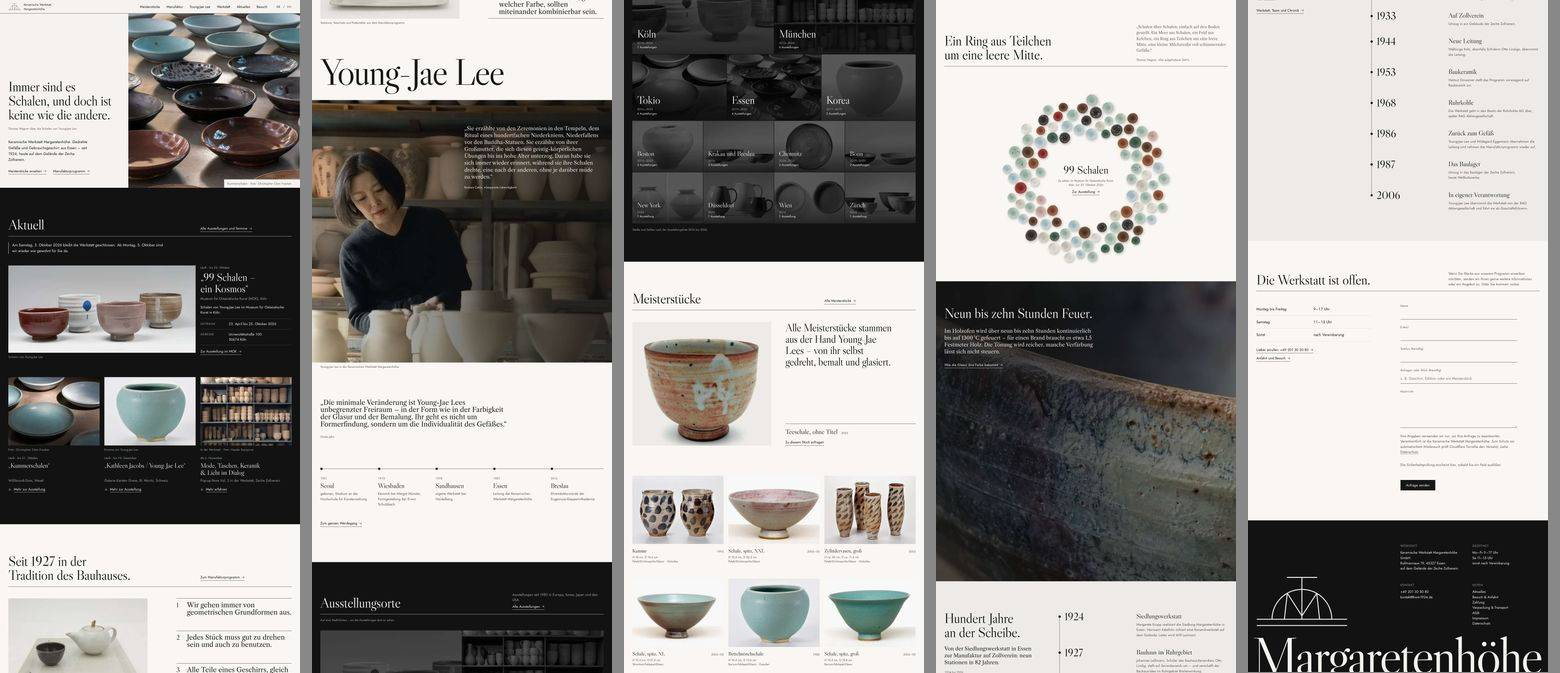
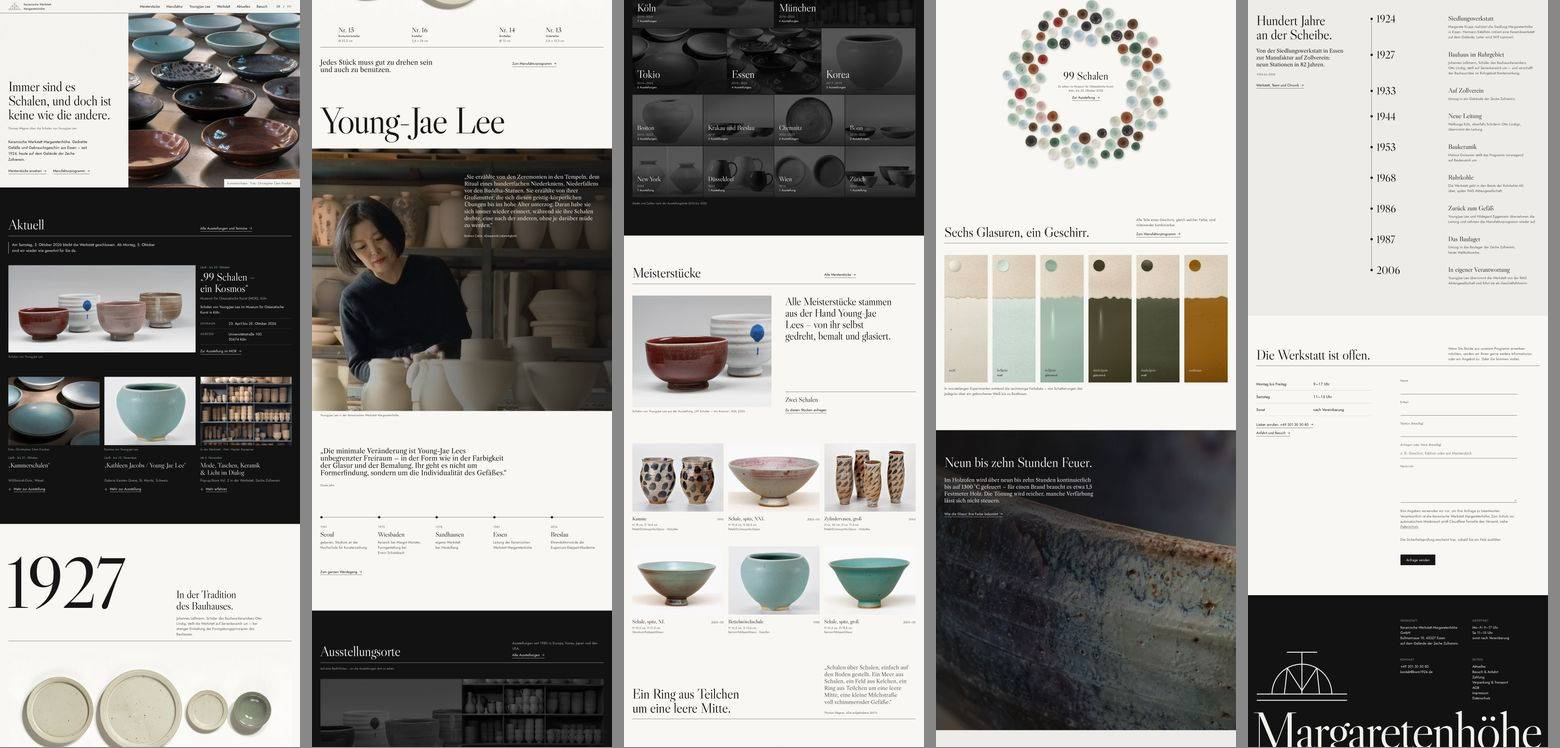
Bericht Runde 2: Empfehlung Kombination 1927 und Tafel, Farbskala gegen Ende, Meisterstück-Bild mit Alternativen; DESIGN.md und README nachgezogen

diff --git a/konzept/STARTSEITE-MITTELWEG.md b/konzept/STARTSEITE-MITTELWEG.md
@@ -1,6 +1,21 @@
 # Startseite „Mittelweg“ (Gesamtstand plus Teile der Bauhaus-Variante)
 
-Stand: 05.10.2026. Branch `startseite-mittelweg` (Basis `gesamtstand` e0330a3), Vorschau https://startseite-mittelweg-kwm-redesign.entwicklung-7f3.workers.dev. Auftrag: Admin-Entscheidungen vom 05.10.2026 in `.superpowers/sdd/MITTELWEG/progress.md`. Die Seite unterscheidet sich vom Gesamtstand nur auf der Startseite und auf /young-jae-lee (ein Satz ergänzt, siehe Abschnitt 6).
+Stand: 05.10.2026. Branch `startseite-mittelweg` (Basis `gesamtstand`, seit Runde 2 a81c9d2), Vorschau https://startseite-mittelweg-kwm-redesign.entwicklung-7f3.workers.dev. Auftrag: Admin-Entscheidungen vom 05.10.2026 in `.superpowers/sdd/MITTELWEG/progress.md`. Die Seite unterscheidet sich vom Gesamtstand nur auf der Startseite und auf /young-jae-lee (ein Satz ergänzt, siehe Abschnitt 6).
+
+## 0. Runde 2 (Admin-Feedback 05.10.2026): Empfehlung
+
+**Feedback:** Entwurf 1 (Grundsätze) verworfen. Entwurf 2 (1927) trägt durch die Zahl, Entwurf 3 (Teller-Tafel) ist schön, weil er die Funktion zeigt. Frage nach einem Mittelweg aus 2 und 3. Die Farbskala fehlt. Die Teeschale als Meisterstück gefällt nicht.
+
+**Empfehlung, gebaut als Entwurf 4 (jetzt Standard, `?bauhaus=4` oder ohne Angabe):**
+1. **Bauhaus-Station = 1927 über der Tafel.** Oben die Jahreszahl als Marke, rechts auf ihrer Grundlinie „In der Tradition des Bauhauses.“ und ein Satz zu Leßmann. Darunter die vier Teller mit Programmnummer, Name und Maß, darunter der Grundsatz „Jedes Stück muss gut zu drehen sein und auch zu benutzen.“. Herkunft und Gebrauch stehen in einem Abschnitt: woher die Formen kommen und wofür sie da sind. Das Regal aus Entwurf 2 entfällt hier, die Tafel ist das stärkere Bild, und zwei Fotos würden die Zahl schwächen.
+2. **Farbskala als eigener ruhiger Abschnitt gegen Ende, nicht in der Bauhaus-Station.** „Sechs Glasuren, ein Geschirr.“ steht zwischen 99 Schalen und Feuer, dort, wo der Manufaktur-Block im Gesamtstand stand.
+   - Die Farbskala ist eine interaktive Signatur und füllt zwei Drittel der Bildschirmhöhe. Zusammen mit Zahl und Tafel würde die Station rund zweieinhalb Bildschirme lang, gleich nach Aktuell. Die Person (Young-Jae Lee) rückte weit nach unten, und auf einem Bildschirm stünden zwei starke Elemente (DESIGN.md §1: eine Signatur je Bildschirm).
+   - Die Geschichte wird klarer: oben das Warum (Bauhaus, Gebrauch), gegen Ende das Womit (sechs Glasuren, „alle Teile kombinierbar“). Danach folgt das Feuer mit dem Link „Wie die Glasur ihre Farbe bekommt“. Farbe und Brand stehen damit nebeneinander.
+   - Rhythmus: Die lange helle Strecke nach den Orten (Meisterstücke, 99 Schalen) bekommt einen farbigen Halt, bevor das dunkle Feuer kommt.
+   - Der Admin erinnert die Farbskala „gegen Ende“; dort wirkt sie als ruhiger Ausklang des Geschirrs.
+3. **Kein dritter Weg „oben etwas anderes, Manufaktur und Meisterstücke lassen“:** Ein eigener Manufaktur-Block mit Regal, Kurzfakten und Krügen war genau der Text- und Bildballast, den der Admin aus der Startseite haben wollte. Tafel (oben) und Farben (unten) erzählen die Manufaktur mit zwei Bildern und drei Sätzen.
+
+Entwurf 1 ist entfernt. Entwürfe 2 und 3 bleiben zum Vergleich (`?bauhaus=2`, `?bauhaus=3`), der Abschnitt Farben steht in allen Fassungen.
 
 ## 1. Abschnittsfolge
 
@@ -8,30 +23,32 @@ Stand: 05.10.2026. Branch `startseite-mittelweg` (Basis `gesamtstand` e0330a3), 
 |---|---|---|---|
 | 1 | Einstieg: Wagner-Zitat, Kummerschalen | hell | unverändert |
 | 2 | Aktuell | Anker | unverändert |
-| 3 | **Bauhaus-Station** (drei Entwürfe, `?bauhaus=1|2|3`) | hell | neu; ersetzt Einleitungssatz mit Zwei Linien und den Manufaktur-Block |
+| 3 | **Bauhaus-Station** (Entwurf 4: 1927 über der Tafel; `?bauhaus=2|3` zum Vergleich) | hell | neu; ersetzt Einleitungssatz und Zwei Linien |
 | 4 | Young-Jae Lee: Name, haftendes Porträt mit Catoir, Jahn, Lebensweg | hell, Bild | Jahn nur noch einmal (der Satz zum koreanischen Erbe entfällt hier) |
 | 5 | Ausstellungsorte | Anker | rückt vor die Meisterstücke |
-| 6 | Meisterstücke: Einzelwerk und sechs Werke | hell | Aufbau wie bisher, neues Einzelbild (Teeschale), höchstens zwei Drittel Bildschirmhöhe |
+| 6 | Meisterstücke: Einzelwerk und sechs Werke | hell | Aufbau wie bisher, neues Einzelbild (zwei Schalen aus dem MOK-Foto), höchstens zwei Drittel Bildschirmhöhe |
 | 7 | 99 Schalen | hell | unverändert |
-| 8 | Feuer | Bild | unverändert |
-| 9 | Chronik mit Kurztexten | Fläche | unverändert |
-| 10 | Besuch und Anfrage | hell | unverändert |
+| 8 | **Farben**: „Sechs Glasuren, ein Geschirr.“, Farbskala | hell | statt des Manufaktur-Blocks; nur Farbskala, ein Satz, ein Link |
+| 9 | Feuer | Bild | unverändert |
+| 10 | Chronik mit Kurztexten | Fläche | unverändert |
+| 11 | Besuch und Anfrage | hell | unverändert |
 
-Entfallen: Meditation (steht auf /meisterstuecke), Einleitungssatz und Zwei Linien, Manufaktur-Block mit Farbskala, Regal, Kurzfakten und Krügen.
+Entfallen: Meditation (steht auf /meisterstuecke), Einleitungssatz und Zwei Linien, aus dem Manufaktur-Block Regal, Kurzfakten und Krüge (die Farbskala ist zurück, siehe Abschnitt 0).
 
-**Hell und Dunkel, am Bild geprüft** (`startseite-mittelweg/nachher-1440.jpg`): hell, Anker (Aktuell), hell (Bauhaus), hell mit großem dunklem Porträt, Anker (Orte), hell (Meisterstücke, 99 Schalen), dunkles Bild (Feuer), Fläche (Chronik), hell, Anker (Footer). Nie zwei Anker hintereinander. Zwischen Aktuell und Orte liegen rund 3.400 px, aber das haftende Porträt ist am Rechner selbst ein dunkles Vollbild und gibt dort Halt. Nach den Orten folgen gut drei Bildschirme hell; sie tragen sich über die Werkfotos und den farbigen Ring und enden im dunklen Feuer. Ich habe deshalb nichts umgefärbt: Eine Fläche für die Bauhaus-Station oder die 99 Schalen würde zusammen mit der Chronik „Fläche, Bild, Fläche“ ergeben und den Rhythmus unruhiger machen. Die Orte bleiben dunkel (Vorgabe).
+**Hell und Dunkel, am Bild geprüft** (`startseite-mittelweg/nachher-1440.jpg`): hell, Anker (Aktuell), hell (Bauhaus), hell mit großem dunklem Porträt, Anker (Orte), hell (Meisterstücke, 99 Schalen, Farben mit den sechs Glasurbändern), dunkles Bild (Feuer), Fläche (Chronik), hell, Anker (Footer). Nie zwei Anker hintereinander. Zwischen Aktuell und Orte liegen rund 3.400 px, aber das haftende Porträt ist am Rechner selbst ein dunkles Vollbild und gibt dort Halt. Nach den Orten folgen gut drei Bildschirme hell; sie tragen sich über die Werkfotos und den farbigen Ring und enden im dunklen Feuer. Ich habe deshalb nichts umgefärbt: Eine Fläche für die Bauhaus-Station oder die 99 Schalen würde zusammen mit der Chronik „Fläche, Bild, Fläche“ ergeben und den Rhythmus unruhiger machen. Die Orte bleiben dunkel (Vorgabe).
 
 **Regel `--werk-max` (66 svh) mit den Tokens abgeglichen:** neu in `global.css` neben `--section` und `--head-gap`, in DESIGN.md §4 als „Bildgröße nach Rolle“. Greift bei allen Werkbildern der Startseite: Einzelwerk Meisterstücke (vorher bis 680 px hoch, jetzt höchstens 594 px bei 900 px Bildschirmhöhe), Bilder der drei Bauhaus-Entwürfe. Die Werkschau (etwa 315 px) und das Spotlight bei Aktuell liegen ohnehin darunter. Ausgenommen sind Stimmungsbilder: Einstieg, Feuer, Orte und das haftende Porträt am Rechner (Admin: Haft-Element bleibt). Am Handy steht das Porträt 1:1 mit Rand und bleibt unter zwei Dritteln.
 
-## 2. Die Bauhaus-Station in drei Entwürfen
+## 2. Die Bauhaus-Station: Entwurf 4 (Standard), 2 und 3 zum Vergleich
 
-Gemeinsam: Raster aus 12 Spalten, Haarlinien als Rasterkanten, Farbwelt und Schriften der Seite, keine Bauhaus-Zitate als Stil (kein Rot-Gelb-Blau, keine Grundformen-Symbole, keine Grotesk), keine Farbstreifen, keine Glasurbühne. Umschaltung: Das Kopf-Skript setzt bei `?bauhaus=2|3` `data-bauhaus` an `<html>`, bevor die Seite zeichnet; CSS zeigt den passenden Entwurf. Ohne Angabe (und ohne JavaScript) erscheint Entwurf 1. Kein Sprung, CSP-konform (Hash in `astro.config.mjs`), Test in `tests/verhalten.spec.ts`. Nach der Entscheidung entfallen Umschalter, die zwei anderen Entwürfe und ggf. das Bild `teller-reihe.webp` bzw. die Rolle `--t-marke`.
+Gemeinsam: Raster aus 12 Spalten, Haarlinien als Rasterkanten, Farbwelt und Schriften der Seite, keine Bauhaus-Zitate als Stil (kein Rot-Gelb-Blau, keine Grundformen-Symbole, keine Grotesk), keine Farbstreifen, keine Glasurbühne. Umschaltung: Das Kopf-Skript setzt bei `?bauhaus=2|3` `data-bauhaus` an `<html>`, bevor die Seite zeichnet; CSS zeigt den passenden Entwurf. Ohne Angabe (und ohne JavaScript) erscheint Entwurf 4; `?bauhaus=1` und unbekannte Werte zeigen ebenfalls 4. Kein Sprung, CSP-konform (Hash in `astro.config.mjs`), Test in `tests/verhalten.spec.ts`. Nach der Entscheidung entfallen Umschalter, die zwei anderen Entwürfe und ggf. das Bild `teller-reihe.webp` bzw. die Rolle `--t-marke`.
 
-### Entwurf 1 „Grundsätze“ (typografisch, Raster)
-- **Idee:** Drei nummerierte Grundsätze der Werkstatt stehen im strengen Raster neben einem Ensemble aus dem Programm. Die Nummern sind hier Inhalt (eine Liste von Regeln), keine Dekoration. Form, Gebrauch, System in dieser Reihenfolge.
-- **Texte und Quellen:** „Wir gehen immer von geometrischen Grundformen aus.“ (Young-Jae Lee im Interview, Ilona Marx, „Der Ruf des Bauhaus“, urbanana, 25.01.2023, `CONTENT-FUNDE.md` 2.1, in der Stimme der Werkstatt); „Jedes Stück muss gut zu drehen sein und auch zu benutzen.“ und „Alle Teile eines Geschirrs, gleich welcher Farbe, sollten miteinander kombinierbar sein.“ (Vorgaben für das Manufakturprogramm, `/manufaktur`, alte Seite `/werkstatt/arbeitsweise/`).
-- **Bild:** Teekanne, Teeschale und Plattenteller (`teekanne.webp`, 1030 × 687, Freisteller auf Fläche), Nachweis fehlt.
-- **Screens:** `startseite-mittelweg/entwurf-1-1440.jpg`, `entwurf-1-390.jpg`.
+### Entwurf 4 „1927 und Tafel“ (Standard, Kombination aus 2 und 3)
+- **Idee:** Herkunft und Gebrauch in einem Abschnitt. Die Jahreszahl als Marke (Spalte 1–7), rechts auf ihrer Grundlinie Satz und Herkunft (Spalte 8–12), Haarlinie, dann die Tafel mit vier Tellern und ihrer Legende, darunter der Grundsatz des Programms.
+- **Texte und Quellen:** Chronik 1927 (Leßmann, Lindig, „bei strenger Einhaltung der Formgebungsprinzipien des Bauhauses“), Vorgabe „Jedes Stück muss gut zu drehen sein und auch zu benutzen.“ (`/manufaktur`), Teller Nr. 15, 16, 14, 13 aus `manufaktur.ts`.
+- **Bild:** `teller-reihe.webp` (siehe Entwurf 3), Komponente `TellerTafel` (von 3 und 4 geteilt).
+- **Screens:** `startseite-mittelweg/entwurf-4-1440.jpg`, `entwurf-4-390.jpg`.
+- Entwurf 1 „Grundsätze“ ist nach dem Feedback entfernt (Bild klein und grau, Liste zu textlastig).
 
 ### Entwurf 2 „1927“ (Herkunft, Typofoto)
 - **Idee:** Die Jahreszahl wird zur Marke, wie im Typofoto der Bauhaus-Drucksachen: große Zahl und Foto auf einer gemeinsamen Unterkante, darunter zwei Sätze im selben Raster. Das Regal mit ungebrannter Serienware zeigt, was Leßmann 1927 einführte: Serie, Norm, Wiederholung.
@@ -42,7 +59,7 @@ Gemeinsam: Raster aus 12 Spalten, Haarlinien als Rasterkanten, Farbwelt und Schr
 
 ### Entwurf 3 „Tafel“ (Form folgt Gebrauch)
 - **Idee:** Eine Tafel wie im Musterkatalog: vier Teller aus dem Programm in einer Reihe von oben, darunter genau unter jedem Stück Programmnummer, Name und Maß. Gleiche Grundform in abgestuften Größen, jede Größe ein Gebrauch (Brotschmier-, Ess-, Brot-, Unterteller). Das Foto ist freigestellt, sein Grund ist auf den Seitengrund `#F8F7F4` ausgeglichen (Vignette korrigiert), die Teller liegen also direkt auf der Seite.
-- **Texte und Quellen:** Grundsatz „Jedes Stück muss gut zu drehen sein …“ im Kopf, „Alle Teile eines Geschirrs …“ darunter (wie Entwurf 1); Nummern, Namen, Maße aus `src/data/manufaktur.ts` (Teller Nr. 15, 16, 14, 13), Zuordnung nach der alten Seite `/manufakturprogramm/geschirr-2/`.
+- **Texte und Quellen:** Grundsatz „Jedes Stück muss gut zu drehen sein …“ im Kopf, „Alle Teile eines Geschirrs …“ darunter; Nummern, Namen, Maße aus `src/data/manufaktur.ts` (Teller Nr. 15, 16, 14, 13), Zuordnung nach der alten Seite `/manufakturprogramm/geschirr-2/`.
 - **Bild:** neue Aufnahme der Werkstatt vom Oktober 2026, https://kwm-1924.de/wp-content/uploads/2026/10/1013-1016-Teller-plates-scaled.jpg (2560 × 1709), beschnitten auf 2560 × 1060 als `teller-reihe.webp`. Nachweis fehlt.
 - **Screens:** `entwurf-3-1440.jpg`, `entwurf-3-390.jpg`.
 
@@ -51,7 +68,7 @@ Gemeinsam: Raster aus 12 Spalten, Haarlinien als Rasterkanten, Farbwelt und Schr
 |---|---|---|
 | [19–86](https://19-86.fr) | Zahl als Monument, Haarlinien als Ordnung (Entwurf 2) | leichte Grotesk, Tabellenkopf |
 | [Gustavo Faria](https://gustavo.work) | schmale Informationsspalte neben großer Jahreszahl | gerissene Bildkanten |
-| [MDF Italia Contract](https://contract.mdfitalia.com/en) | „Key values“ als wenige Grundsätze im Raster (Entwurf 1) | Kreisgrafiken |
+| [MDF Italia Contract](https://contract.mdfitalia.com/en) | „Key values“ als wenige Grundsätze im Raster (Entwurf 1, verworfen) | Kreisgrafiken |
 | [B—Line](https://www.b-line.it), [V–A–C](https://v-a-c.org/en) | Objekte im gleichen Licht, eine Beschriftung je Objekt (Entwurf 3) | Versalien-Labels, Mono-Schrift |
 
 Dazu als Bauhaus-Herkunft der Mittel: Typofoto (Moholy-Nagy), Musterkatalog mit Modellnummern. Beides als Prinzip, nicht als Optik.
@@ -62,14 +79,13 @@ Dazu als Bauhaus-Herkunft der Mittel: Typofoto (Moholy-Nagy), Musterkatalog mit 
 
 ## 3. Meisterstück-Einstiegsbild
 
-**Gewählt: Teeschale, ohne Titel, 2023** (`src/assets/img/kwm/teeschale.webp`, 1200 × 1200; Original auf der alten Seite 1500 × 1500: https://kwm-1924.de/wp-content/uploads/2024/09/Young-Jae-Lee-Ohne-Titel-2023-…-teabowl-…-1500x1500-1.webp). Sicher ein Werk von Young-Jae Lee: Titel und Jahr stehen so auf /meisterstuecke („Young-Jae Lee, Teeschale, ohne Titel, 2023“) und /young-jae-lee, der Dateiname der alten Seite bestätigt beides. Freigestellt, ruhiger Grund, passt als Einzelstück in den bisherigen Aufbau (Bild links, Satz und Werkangaben rechts). Maße nicht belegt (der Dateiname nennt „105x145cm“, offensichtlich falsch). **Nachweis fehlt**; laut `BILDPLAN.md` A14 liegen die Rechte vermutlich bei der Galerie Metzger. Daten: `einzelwerk` in `src/data/werke.ts`, Anfrage-Link „Teeschale, ohne Titel (2023)“. Damit das Stück nicht direkt darüber schon als Orte-Kachel steht, zeigt die Kachel Korea jetzt eine Kumme (`kumme_3.webp`).
+**Gewählt (Runde 2): zwei Schalen aus dem MOK-Foto** (`src/assets/img/kwm/werke/zwei-schalen-mok.webp`, 1630 × 1304, Ausschnitt). Vorn die ochsenblutrote, dahinter die weiße mit blauem Tupfen. Quelle: https://kwm-1924.de/wp-content/uploads/2026/02/image.png (3575 × 1663), auf der alten Seite unter der Ankündigung „99 Schalen – ein Kosmos“ (MOK Köln). Das schönste und schärfste Werkfoto, das die alte Seite hat: ruhiger grauer Grund, Glasur und Fuß gut zu sehen. Der Ausschnitt zeigt zwei Schalen groß statt vier klein. Ehrlich gesagt bleibt es dasselbe Foto: Aktuell zeigt es als Ganzes noch bis zum Ende der Ausstellung (25.10.2026), die Orte-Kachel Köln gedämpft in Schwarz-Weiß. Durch den engen Ausschnitt und die andere Größe liest es sich aber als eigenes Werkbild; nach dem 25.10. bleibt nur noch die gedämpfte Kachel. Bildunterschrift: „Schalen von Young-Jae Lee aus der Ausstellung „99 Schalen – ein Kosmos“, Köln 2026“. Titel, Jahr und Maße sind nicht belegt, deshalb steht in der Werkzeile nur „Zwei Schalen“. **Nachweis fehlt** (Fotograf, Rechte; wohl Museumsfoto, bei MOK oder Werkstatt klären). Daten: `einzelwerk` in `src/data/werke.ts`.
 
-Alternativen:
-1. **Vier Teeschalen** (MOK-Foto), https://kwm-1924.de/wp-content/uploads/2026/02/image.png, 3575 × 1663, im Repo als `schalen-trio.webp` (2000 × 931). Schönstes und schärfstes Foto, passt wörtlich zu „Immer sind es Schalen …“. Dagegen: steht schon im Aktuell-Spotlight und als Kachel Köln, also dreimal auf der Startseite; dass es Schalen von Lee sind, ist nur durch die Platzierung unter der MOK-Ankündigung belegt; Fotograf und Rechte offen; Querformat 2,15:1 passt nicht in den Aufbau mit Einzelstück und Werkangaben.
-2. **Schale, spitz, XXL** (`schale_spitz_xxl_1.webp`), H 10,5 cm, D 22,5 cm, Petalit-Eichenasche-Glasur, 2003–2005 (`werke.ts`), freigestellt. Nur 600 × 400, auch auf der alten Seite nicht größer. Für ein großes Einzelbild zu klein.
-3. **Kugelvase** (`kugelvase.webp`), H 25 cm, D 32,5 cm, Barium-Feldspat-Glasur, Holzofen, Essen 1996. Ebenfalls nur 600 × 400.
-
-Die Spindelvase (`spindelvase-einzeln-1200.webp`) ist entfernt, sie wurde nur hier verwendet.
+Alle Kandidaten selbst angesehen (WordPress-Mediathek der alten Seite vollständig, alles ab 800 px):
+1. **Vier Schalen, ganzes MOK-Foto** (wie oben, 3575 × 1663). Das schönste Gesamtbild, aber zurzeit doppelt mit Aktuell und im Breitformat 2,15:1, das nicht in den Aufbau mit Werkangaben passt.
+2. **Teeschale, ohne Titel, 2023** (`teeschale.webp`, Original 1500 × 1500). Laut Ankündigung der alten Seite (2024/09/image.png) „o. T., 2023, 10,5 × Ø 14,5 cm, Foto: Edi Baumann“, also vollständig belegt. Vom Admin als nicht schön verworfen.
+3. **Kumme, ohne Titel, 2025–2026** (Detail), Rückseite der Greve-Einladung 2026 (https://kwm-1924.de/wp-content/uploads/2026/09/2026_Einladung_Seite-4.jpg, 1291 × 1321), H 12 cm, Ø 19,7 cm, Foto: André Schuster. Belegt, aber ein Scan der Drucksache und nur ein Ausschnitt der Kumme.
+4. Nicht geeignet: Schalen im Streiflicht (Foto: Christopher Clem Franken, 900 × 600, Stimmungsbild auf dunklem Holz) und die Werkbilder der Meisterstücke-Seiten (nur 600 × 400).
 
 ## 4. Zahlen vorher und nachher
 
@@ -79,19 +95,19 @@ Gemessen mit Playwright (Chromium, reduzierte Bewegung, fester Tag 04.10.2026): 
 |---|---:|---:|---:|---|---:|---:|---:|
 | Einstieg | 45 | 900 | 1.032 | Einstieg | 45 | 900 | 1.032 |
 | Aktuell | 131 | 1.615 | 1.529 | Aktuell | 131 | 1.615 | 1.529 |
-| Einleitungssatz, Zwei Linien | 86 | 882 | 900 | **Bauhaus** Entwurf 1 / 2 / 3 | 45 / 56 / 55 | 976 / 882 / 1.340 | 1.035 / 996 / 786 |
+| Einleitungssatz, Zwei Linien | 86 | 882 | 900 | **Bauhaus** Entwurf 4 (2 / 3) | 63 (56 / 55) | 1.568 (882 / 1.340) | 924 (996 / 786) |
 | Young-Jae Lee | 180 | 2.475 | 2.007 | Young-Jae Lee | 141 | 2.434 | 1.762 |
 | Meisterstücke | 90 | 2.017 | 1.229 | Ausstellungsorte | 87 | 1.786 | 1.767 |
-| Ausstellungsorte | 87 | 1.786 | 1.767 | Meisterstücke | 92 | 2.087 | 1.309 |
+| Ausstellungsorte | 87 | 1.786 | 1.767 | Meisterstücke | 103 | 2.058 | 1.286 |
 | Meditation | 63 | 559 | 719 | (entfällt) | | | |
-| 99 Schalen | 59 | 1.379 | 937 | 99 Schalen | 59 | 1.235 | 857 |
-| Manufaktur | 132 | 2.337 | 2.088 | (entfällt) | | | |
+| 99 Schalen | 59 | 1.379 | 937 | 99 Schalen | 59 | 1.296 | 888 |
+| Manufaktur | 132 | 2.337 | 2.088 | **Farben** | 44 | 1.167 | 1.118 |
 | Feuer | 44 | 1.440 | 1.266 | Feuer | 44 | 1.440 | 1.266 |
 | Chronik | 166 | 1.596 | 748 | Chronik | 166 | 1.596 | 748 |
 | Besuch | 96 | 1.341 | 1.580 | Besuch | 96 | 1.341 | 1.580 |
-| **12 Abschnitte** | **1.179** | **19.054** | **16.939** | **10 Abschnitte** (Entwurf 1) | **906** | **16.138** | **14.022** |
+| **12 Abschnitte** | **1.179** | **19.054** | **16.939** | **11 Abschnitte** (Entwurf 4) | **979** | **17.929** | **15.037** |
 
-- Text −23 %, Seite am Rechner −15 %, am Handy −17 % (Entwurf 2: 16.044 / 13.983, Entwurf 3: 16.502 / 13.774).
+- Runde 2 (Entwurf 4 mit Farben): Text −17 %, Seite am Rechner −6 %, am Handy −11 %. Der Abschnitt Farben kostet rund 1.170 px, die Station 4 ist rund 600 px höher als Entwurf 1. Runde 1 (Entwurf 1, ohne Farben) lag bei −23 % / −15 % / −17 %.
 - Gesamthöhe = ganze Seite mit Footer. Die Unterschiede zur Messung der Bauhaus-Variante kommen von der reduzierten Bewegung.
 - Bilder: `startseite-mittelweg/vorher-1440.jpg`, `nachher-1440.jpg`, `vorher-390.jpg`, `nachher-390.jpg` (Ganzseiten-Screens in Spalten), `meisterstuecke-1440.jpg`.
 - Konsole ohne Fehler, kein waagrechtes Scrollen bei 390 px (Chromium und WebKit, alle drei Entwürfe).
@@ -118,26 +134,26 @@ Nichts geht verloren (Volltextsuche in `src/`):
 
 ## 6. Prüfung
 
-- `npm run check` grün. Playwright gegen `wrangler dev` (Port 8784), alle Projekte (Chromium, WebKit, iPhone, Bewegung): grün bis auf die erwarteten Optik-Abweichungen Startseite und /young-jae-lee (ein Satz mehr) in allen vier Optik-Projekten; die Optik-Referenzen stammen vom Ausgangsstand. Ein Formular-Test in WebKit meldete einmal eine Konsolenmeldung des Turnstile-Widgets (Cloudflare, `postMessage`), dreimal wiederholt grün.
-- Neue Tests: Bauhaus-Station zeigt je nach `?bauhaus` genau einen Entwurf (ohne Angabe und bei ungültigem Wert Entwurf 1).
+- Runde 2: `npm run check` grün. Alle Playwright-Projekte (Chromium, WebKit, iPhone, Bewegung) gegen `wrangler dev` auf Port 8784: 417 bestanden, abweichend nur die Optik der Startseite in den vier Optik-Projekten (erwartet, die Referenzen sind vom Ausgangsstand). `npm run test:vorschau` grün.
+- Farbskala wiederhergestellt in der Fassung von `origin/gesamtstand` (Oberflächen-Map `OBERFLAECHEN`, `sprenkelart`, Test `glasuren.test.ts`).
+- Test der Umschaltung: ohne Angabe, `?bauhaus=1`, `=4` und unbekannte Werte zeigen Entwurf 4; `=2` und `=3` genau den gewählten.
+- Screens in WebKit 1440 und 390 selbst angesehen (Bilder vorher durch Scrollen geladen): Entwurf 4, Farben, Meisterstücke, Ganzseite. Konsole ohne Fehler, kein waagrechtes Scrollen.
 
 ## 7. Worauf beim Review achten
 
 Links (jeweils am Rechner und am Handy öffnen):
-- Entwurf 1: https://startseite-mittelweg-kwm-redesign.entwicklung-7f3.workers.dev/?bauhaus=1
-- Entwurf 2: https://startseite-mittelweg-kwm-redesign.entwicklung-7f3.workers.dev/?bauhaus=2
-- Entwurf 3: https://startseite-mittelweg-kwm-redesign.entwicklung-7f3.workers.dev/?bauhaus=3
+- Entwurf 4 (Standard): https://startseite-mittelweg-kwm-redesign.entwicklung-7f3.workers.dev/?bauhaus=4
+- Vergleich Entwurf 2: https://startseite-mittelweg-kwm-redesign.entwicklung-7f3.workers.dev/?bauhaus=2
+- Vergleich Entwurf 3: https://startseite-mittelweg-kwm-redesign.entwicklung-7f3.workers.dev/?bauhaus=3
 
-1. **Am Rechner, alle drei:** Spricht die Station gleich nach Aktuell für Bauhaus, ohne Bauhaus-Kostüm? Welcher Entwurf trägt am besten: Grundsätze (1), Jahreszahl als Marke (2) oder Tafel mit Programmnummern (3)?
-2. **Am Handy, Entwurf 3:** Die Legende steht in vier schmalen Spalten unter den Tellern. Noch lesbar genug?
-3. **Am Rechner, Entwurf 2:** Wirkt die große 1927 als Marke ruhig oder zu laut? Das Regal steht auch in der Kachel Essen der Orte.
-4. **Am Rechner:** Meisterstücke mit der Teeschale. Ist das Bild schön genug, oder lieber die vier Teeschalen (dann dreimal auf der Seite)?
-5. **Am Rechner:** Rhythmus Aktuell (dunkel), Bauhaus, Young-Jae Lee, Orte (dunkel), Meisterstücke, 99 Schalen, Feuer. Ist die helle Strecke nach den Orten zu lang?
-6. **Am Handy:** Young-Jae Lee mit Catoir (auf Kohle) und darunter Jahn. Ein Zitat zu viel?
+1. **Am Rechner, Entwurf 4:** Tragen 1927 und die Teller-Tafel zusammen? Ist die Zahl in dieser Größe richtig, oder soll sie kleiner werden? Die Station ist mit rund 1.570 px gut ein Bildschirm länger als Entwurf 2.
+2. **Am Handy, Entwurf 4:** Die Legende steht 2 × 2 unter dem Foto (die Teller sind für Spalten darunter zu klein). Ist die Zuordnung noch klar?
+3. **Farben gegen Ende:** „Sechs Glasuren, ein Geschirr.“ zwischen 99 Schalen und Feuer. Am Rechner mit der Maus über die Bänder fahren (sie öffnen sich), am Handy antippen.
+4. **Meisterstücke:** die zwei Schalen aus dem MOK-Foto. Schön genug? Stört, dass Aktuell bis zum 25.10. dasselbe Foto im Ganzen zeigt?
+5. **Rhythmus:** Aktuell (dunkel), Bauhaus, Young-Jae Lee, Orte (dunkel), Meisterstücke, 99 Schalen, Farben, Feuer (dunkel). Ruhig genug?
 
 ## 8. Offen
 
-- **Bildrechte:** Teeschale (Galerie Metzger, A14), Teller-Foto Oktober 2026 (Fotograf nicht belegt), Teekanne (Nachweis fehlt). Vor dem Livegang klären.
-- **Farbskala:** Sie stand nur auf der Startseite und ist mit dem Manufaktur-Block entfallen. Soll sie auf /manufaktur (Kapitel Farben neben der Glasurbühne) zurückkommen?
+- **Bildrechte:** zwei Schalen bzw. MOK-Foto (Fotograf offen, vermutlich Museum), Teller-Foto Oktober 2026 (Fotograf nicht belegt). Vor dem Livegang klären. Die Teeschale ist jetzt belegt (Foto: Edi Baumann), wird aber nicht mehr verwendet.
 - **Historisches Werkstattfoto** für Entwurf 2: Anfrage bei Archiven (BILDPLAN A12).
-- Nach der Wahl: Umschalter und die zwei anderen Entwürfe entfernen, Kopf-Skript und CSP-Hash zurücksetzen, Optik-Referenzen neu.
+- Nach der Wahl: Umschalter und die nicht gewählten Entwürfe entfernen, Kopf-Skript und CSP-Hash zurücksetzen, Optik-Referenzen neu.

diff --git a/README.md b/README.md
@@ -61,9 +61,9 @@ wrangler.jsonc        Worker kwm-redesign, Assets aus dist/, 404-Seite, Variable
 worker/               Worker-Code für /api/anfrage (index, anfrage, turnstile, mail) samt Vitest-Tests, eigene tsconfig
 worker-configuration.d.ts   von `npm run types` erzeugt (Env, Laufzeittypen), nicht von Hand ändern
 src/layouts/          BaseLayout.astro: Kopf, Skripte, Header und Footer (kein CSS-Import)
-src/components/       Komponenten nach DESIGN.md §11 (Gerüst, Köpfe, Statement, Einträge wie ExhibitionCard, WorkCard, WorkTile, WareCard, FactsList, DateList, PubList, PersonCard, Steps, Aufklappen und Archive: Expander, YearArchive, Timeline, Chronicle, PlaceGrid, Kleinteile: LinkArrow, Button, Notice, InfoBlock, Hours, Bild und Signatur: Figure, Plinth, GlazeStage und die Signatur-Hüllen SigLogo, SigFeuer, SigSticky, SigAktuell sowie InquiryForm mit dem Anfrage-Formular), BauhausStation (Startseite, drei Entwürfe zur Wahl über `?bauhaus=1|2|3`; das Kopf-Skript in `BaseLayout.astro` setzt `data-bauhaus` vor dem ersten Zeichnen, sein CSP-Hash steht in `astro.config.mjs`), InquiryBand (Anfrage-Leiste), StrukturierteDaten (JSON-LD), Bild (jedes Bild, rendert `<Image>` aus `astro:assets`)
+src/components/       Komponenten nach DESIGN.md §11 (Gerüst, Köpfe, Statement, Einträge wie ExhibitionCard, WorkCard, WorkTile, WareCard, FactsList, DateList, PubList, PersonCard, Steps, Aufklappen und Archive: Expander, YearArchive, Timeline, Chronicle, PlaceGrid, Kleinteile: LinkArrow, Button, Notice, InfoBlock, Hours, Bild und Signatur: Figure, Plinth, GlazeStage und die Signatur-Hüllen SigLogo, SigFarbskala, SigFeuer, SigSticky, SigAktuell sowie InquiryForm mit dem Anfrage-Formular), BauhausStation mit TellerTafel (Startseite, Entwurf 4, zum Vergleich `?bauhaus=2|3`; das Kopf-Skript in `BaseLayout.astro` setzt `data-bauhaus` vor dem ersten Zeichnen, sein CSP-Hash steht in `astro.config.mjs`), InquiryBand (Anfrage-Leiste), StrukturierteDaten (JSON-LD), Bild (jedes Bild, rendert `<Image>` aus `astro:assets`)
 src/lib/              anfrage.ts: Regeln des Anfrageformulars, gemeinsam für Browser und Worker
-src/data/             turnstile.ts (Site-Key), Inhalte in der Form des Sanity-Modells: ausstellungen.ts, hinweise.ts, werke.ts, manufaktur.ts, team.ts, texte.ts, vita.ts, werkstatt.ts, anfahrt.ts, arbeitsweise.ts, chronik.ts, lebensweg.ts, orte.ts (Orte und Galerien), glasuren.ts (Glasurbühne, Schalenfarben, Ofenfarben), archiv.ts (vergangene Ausstellungen); dazu kontakt.ts (einzige Quelle für Telefon, E-Mail, Adresse und Öffnungszeiten, Form des Sanity-Dokuments `werkstatt`; Seiten und Formular lesen nur von dort), navigation.ts, bilder.ts (löst Bildpfade auf), typen.ts (gemeinsame Typen)
+src/data/             turnstile.ts (Site-Key), Inhalte in der Form des Sanity-Modells: ausstellungen.ts, hinweise.ts, werke.ts, manufaktur.ts, team.ts, texte.ts, vita.ts, werkstatt.ts, anfahrt.ts, arbeitsweise.ts, chronik.ts, lebensweg.ts, orte.ts (Orte und Galerien), glasuren.ts (Farbskala, Glasurbühne, Schalenfarben, Ofenfarben), archiv.ts (vergangene Ausstellungen); dazu kontakt.ts (einzige Quelle für Telefon, E-Mail, Adresse und Öffnungszeiten, Form des Sanity-Dokuments `werkstatt`; Seiten und Formular lesen nur von dort), navigation.ts, bilder.ts (löst Bildpfade auf), typen.ts (gemeinsame Typen)
 src/pages/            eine .astro-Datei pro Seite
 src/styles/           basis.css (bindet global.css und pages.css ein), seiten/ (Seiten-CSS); die Stile der Signaturen stehen in den Hüllen `Sig*.astro` und in `InquiryForm.astro`
 src/scripts/          Browser-Skripte (TypeScript, Unit-Tests `*.test.ts` mit Vitest: `npm run test:unit`): status (Ausstellungsstatus aus dem Datum, `heuteTag`), lesetitel, zeitraum, anfrage-link, main, signaturen (lädt die sig-* als eigene Chunks), keramik (gemeinsame Typen und Daten); das Layout bindet sie als ein verarbeitetes Skript ein
@@ -88,7 +88,7 @@ Gesichert durch den Test „Stylesheet-Reihenfolge“ in `tests/routen.spec.ts`:
 
 ## Signaturen und Inline-Stile
 
-Jede generative Grafik hat eine Hülle (`SigLogo`, `SigFeuer`, `SigSticky`, `SigAktuell`, `InquiryForm`). Die Hülle setzt `data-sig`, gibt ohne JavaScript sinnvollen Inhalt aus (Text, Liste, Bilder) und trägt das CSS; `src/scripts/signaturen.ts` lädt je `data-sig` das passende Modul `sig-*.ts`. Das Markup enthält keine `style`-Attribute: Die Ofenfarben stehen als Klassen im Stil der Hülle. Was Skripte zur Laufzeit setzen (`element.style.setProperty` in Glasurbühne, Logo, Sticky und `main.ts`), läuft über das CSSOM und braucht keine CSP-Ausnahme für Inline-Stile.
+Jede generative Grafik hat eine Hülle (`SigLogo`, `SigFarbskala`, `SigFeuer`, `SigSticky`, `SigAktuell`, `InquiryForm`). Die Hülle setzt `data-sig`, gibt ohne JavaScript sinnvollen Inhalt aus (Text, Liste, Bilder) und trägt das CSS; `src/scripts/signaturen.ts` lädt je `data-sig` das passende Modul `sig-*.ts`. Das Markup enthält keine `style`-Attribute: Farben der Farbskala und der Ofenfarben stehen als Klassen im Stil der Hülle (der Test `src/data/glasuren.test.ts` gleicht die Farbskala-Klassen mit `glasuren.ts` ab). Was Skripte zur Laufzeit setzen (`element.style.setProperty` in Glasurbühne, Farbskala, Logo, Sticky und `main.ts`), läuft über das CSSOM und braucht keine CSP-Ausnahme für Inline-Stile.
 
 ## Schriften
 
